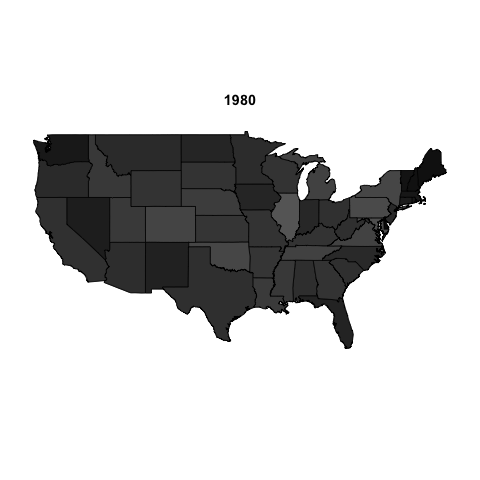
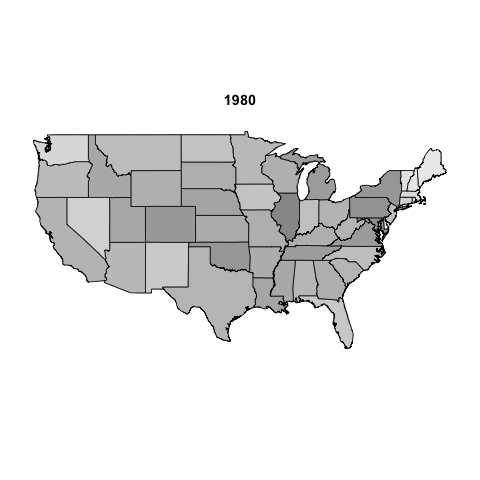
dissim変更

Changed region(s): [[0.0625, 0.2812, 0.9375, 0.7188]]

diff --git a/qss/chapter5/dissimilarity/dissimilarity.html b/qss/chapter5/dissimilarity/dissimilarity.html
@@ -40,7 +40,7 @@ for (i in 1:14) {
     map(database = "state")
     for (j in 1:48) {
         map(database = "state", regions = as.character(dissimilarity_all_list[[i]]$state[j]), 
-            fill = TRUE, add = TRUE, col = grey(dissimilarity_all_list[[i]]$dissimilarity[j]))
+            fill = TRUE, add = TRUE, col = grey(1 - dissimilarity_all_list[[i]]$dissimilarity[j]))
     }
     title(as.character(1956 + i * 4))
 }
